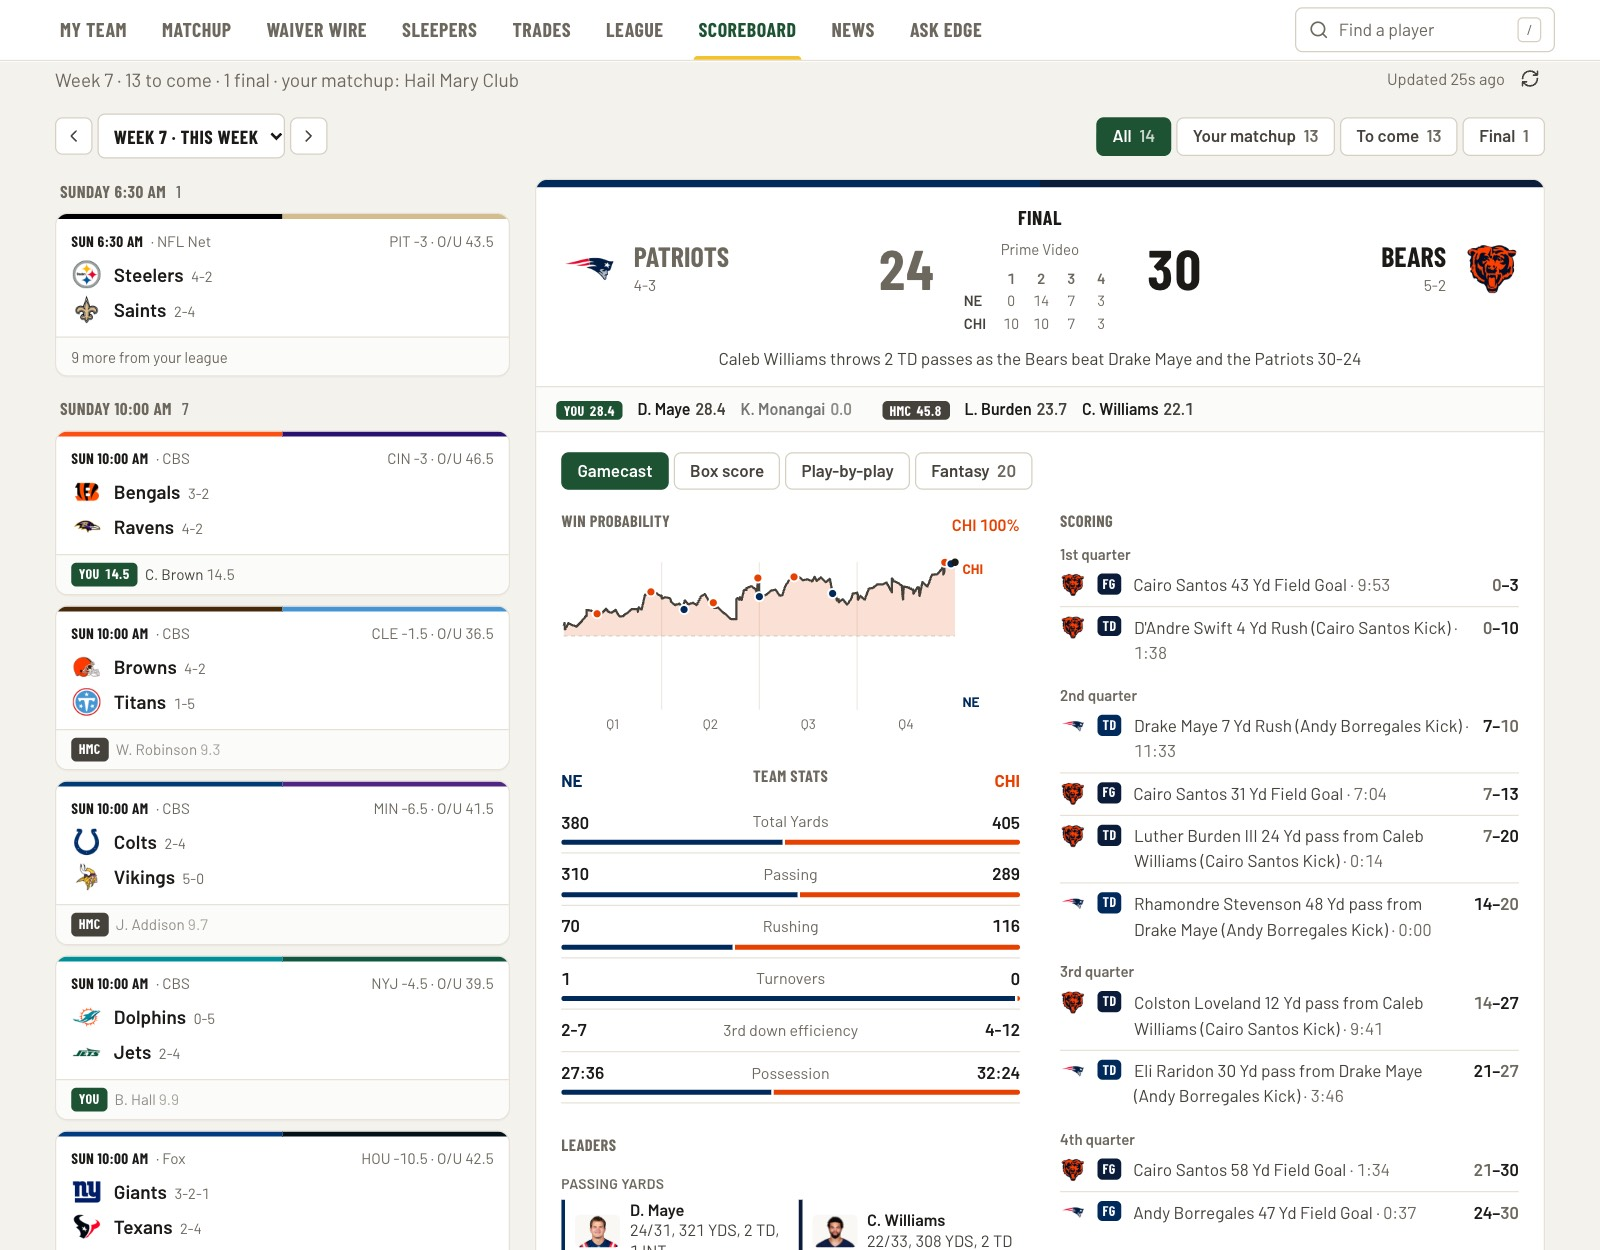
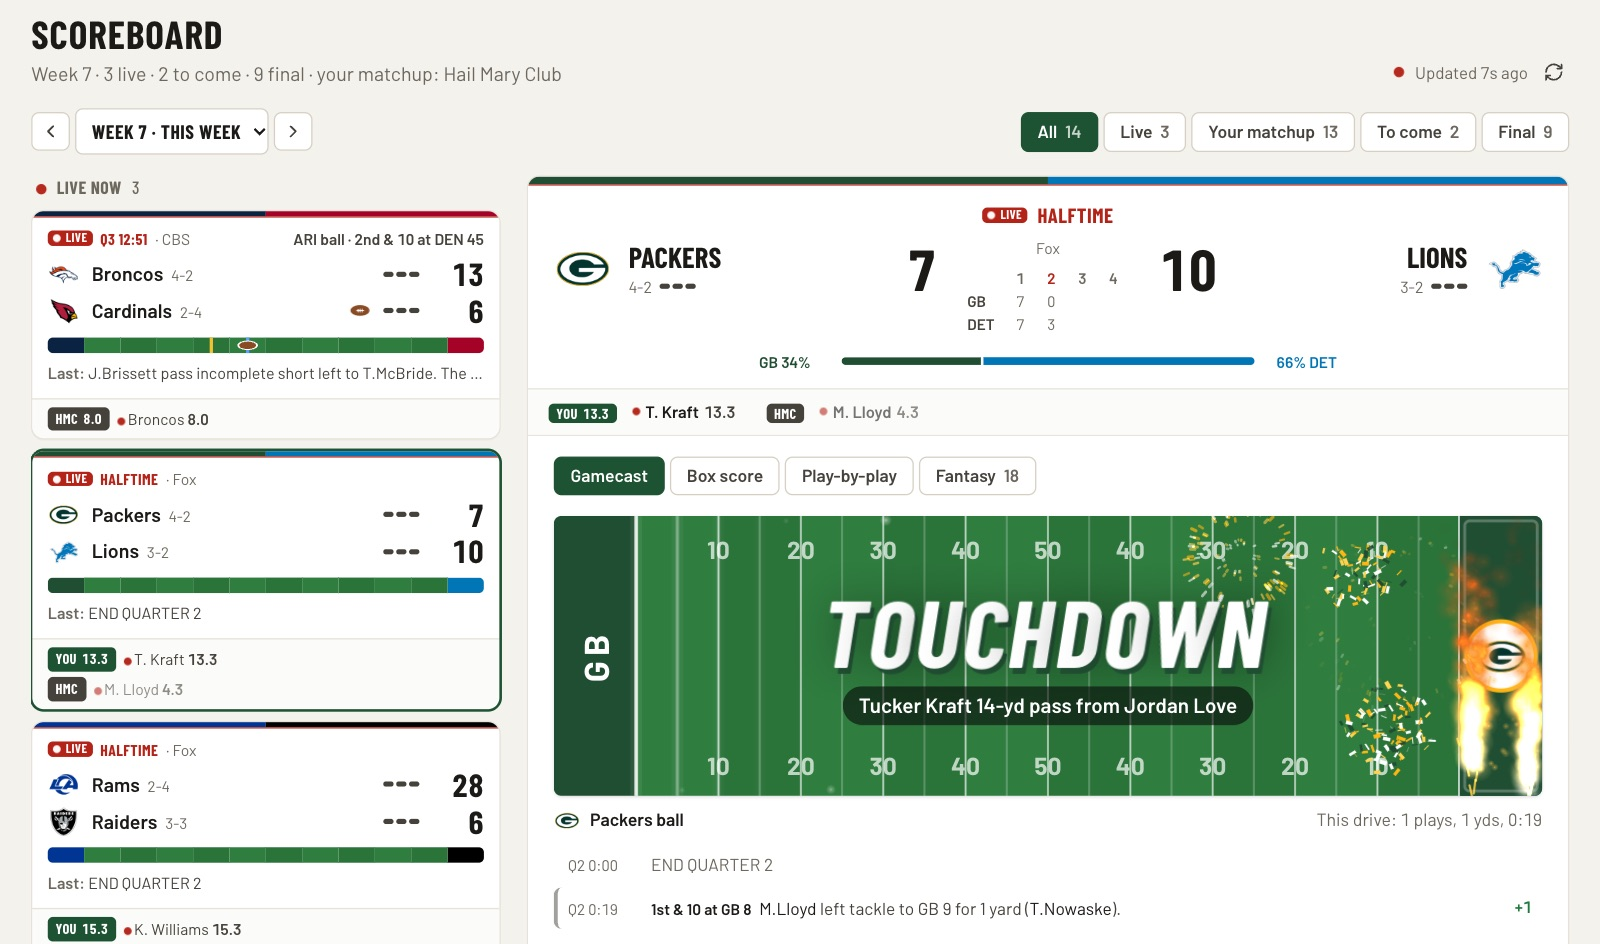
edge's matchup and scoreboard screenshots from week 7's sunday games, with a touchdown playing out on the field

diff --git a/projects/fantasy-edge.html b/projects/fantasy-edge.html
@@ -141,9 +141,9 @@
             <p>Live games refresh every 15 seconds. The engine caches each game&rsquo;s feed for those 15 seconds, so ESPN gets one request per game no matter how many people are watching. Team colors were trickier than they look. A lot of teams are navy or black, so each game&rsquo;s two colors get checked for contrast in light and dark mode and against each other, and one team switches to its alternate color, or a lighter shade, when they&rsquo;re too close.</p>
           <figure class="shot">
             <a href="../images/fantasy-edge-scoreboard.jpg" target="_blank" rel="noopener">
-              <img src="../images/fantasy-edge-scoreboard.jpg" alt="The Scoreboard in the sample league after Thursday night's game. The week's games are down the left. The one you pick opens on the right with the final, the sample team's players in it and its opponent's, win probability, team stats, leaders and every score." loading="lazy" />
+              <img src="../images/fantasy-edge-scoreboard.jpg" alt="The Scoreboard in the sample league during Sunday's games. The week's games are down the left, and the one you pick opens on the right. Here it's Packers at Lions at halftime, and the field is replaying a touchdown by Tucker Kraft, who's on the sample team." loading="lazy" />
             </a>
-            <figcaption>The Scoreboard in the sample league after Thursday night&rsquo;s game. The week&rsquo;s games are down the left. The one you pick opens on the right with the final, the sample team&rsquo;s players in it and its opponent&rsquo;s, win probability, team stats, leaders and every score.</figcaption>
+            <figcaption>The Scoreboard in the sample league during Sunday&rsquo;s games. The week&rsquo;s games are down the left, and the one you pick opens on the right. Here it&rsquo;s Packers at Lions at halftime, and the field is replaying a touchdown by Tucker Kraft, who&rsquo;s on the sample team.</figcaption>
           </figure>
 
             <h2>The rest of the season</h2>
